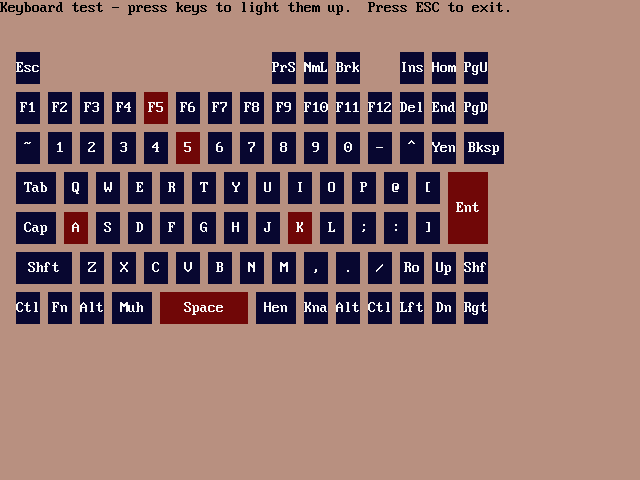
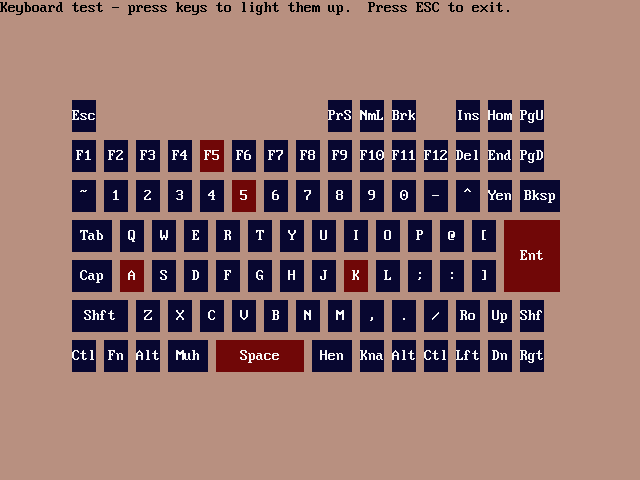
Keyboard test: Enter flush with Backspace + centre the keyboard (v1.6.4)
Enter widened (w3->w4) so its right edge lines up with Backspace's.
make_kbd.py now computes KB_X to centre the keyboard horizontally (kept a
multiple of 8 for g_fillrect) and KB_Y=100 to centre it vertically.

diff --git a/tools/make_kbd.py b/tools/make_kbd.py
@@ -9,7 +9,7 @@
 
 KB_U   = 16     # pixels per half-unit  (base key = 2u = 32px cell)
 KB_X   = 16     # left margin (multiple of 8)
-KB_Y   = 52     # top of the keyboard
+KB_Y   = 100    # top of the keyboard (vertically centred below the title)
 KB_ROWH= 40     # row pitch (taller keys)
 KB_GAP = 8      # gap so a key fill = w*KB_U - GAP (keeps width a multiple of 8)
 
@@ -37,7 +37,7 @@ rows = [
  # row 3 : Tab Q..P @ [  Enter(tall)
  [("Tab",3,0x0F,0),("Q",2,0x10,0),("W",2,0x11,0),("E",2,0x12,0),("R",2,0x13,0),
   ("T",2,0x14,0),("Y",2,0x15,0),("U",2,0x16,0),("I",2,0x17,0),("O",2,0x18,0),
-  ("P",2,0x19,0),("@",2,0x1A,0),("[",2,0x1B,0),("Ent",3,0x1C,0,2)],
+  ("P",2,0x19,0),("@",2,0x1A,0),("[",2,0x1B,0),("Ent",4,0x1C,0,2)],
  # row 4 : Caps A..L ; : ]
  [("Cap",3,0x3A,0),("A",2,0x1E,0),("S",2,0x1F,0),("D",2,0x20,0),("F",2,0x21,0),
   ("G",2,0x22,0),("H",2,0x23,0),("J",2,0x24,0),("K",2,0x25,0),("L",2,0x26,0),
@@ -63,7 +63,11 @@ for r,row in enumerate(rows):
         h = k[4] if len(k)>4 else 1
         recs.append((r,col,w,h,sc,ext,label))
         col += w
-    assert col*KB_U + KB_X <= 640, "row %d too wide: %d" % (r, col*KB_U+KB_X)
+    assert col*KB_U <= 620, "row %d too wide: %d" % (r, col*KB_U)
+
+# centre the whole keyboard horizontally (KB_X kept a multiple of 8 for g_fillrect)
+maxw = max(rec[1] + rec[2] for rec in recs)     # widest column (cells)
+KB_X = ((640 - maxw*KB_U) // 2) & ~7
 
 out=["; KBD.INC - generated by tools/make_kbd.py : PC110 keyboard layout", ""]
 out += ["KB_U    equ %d"%KB_U, "KB_X    equ %d"%KB_X, "KB_Y    equ %d"%KB_Y,